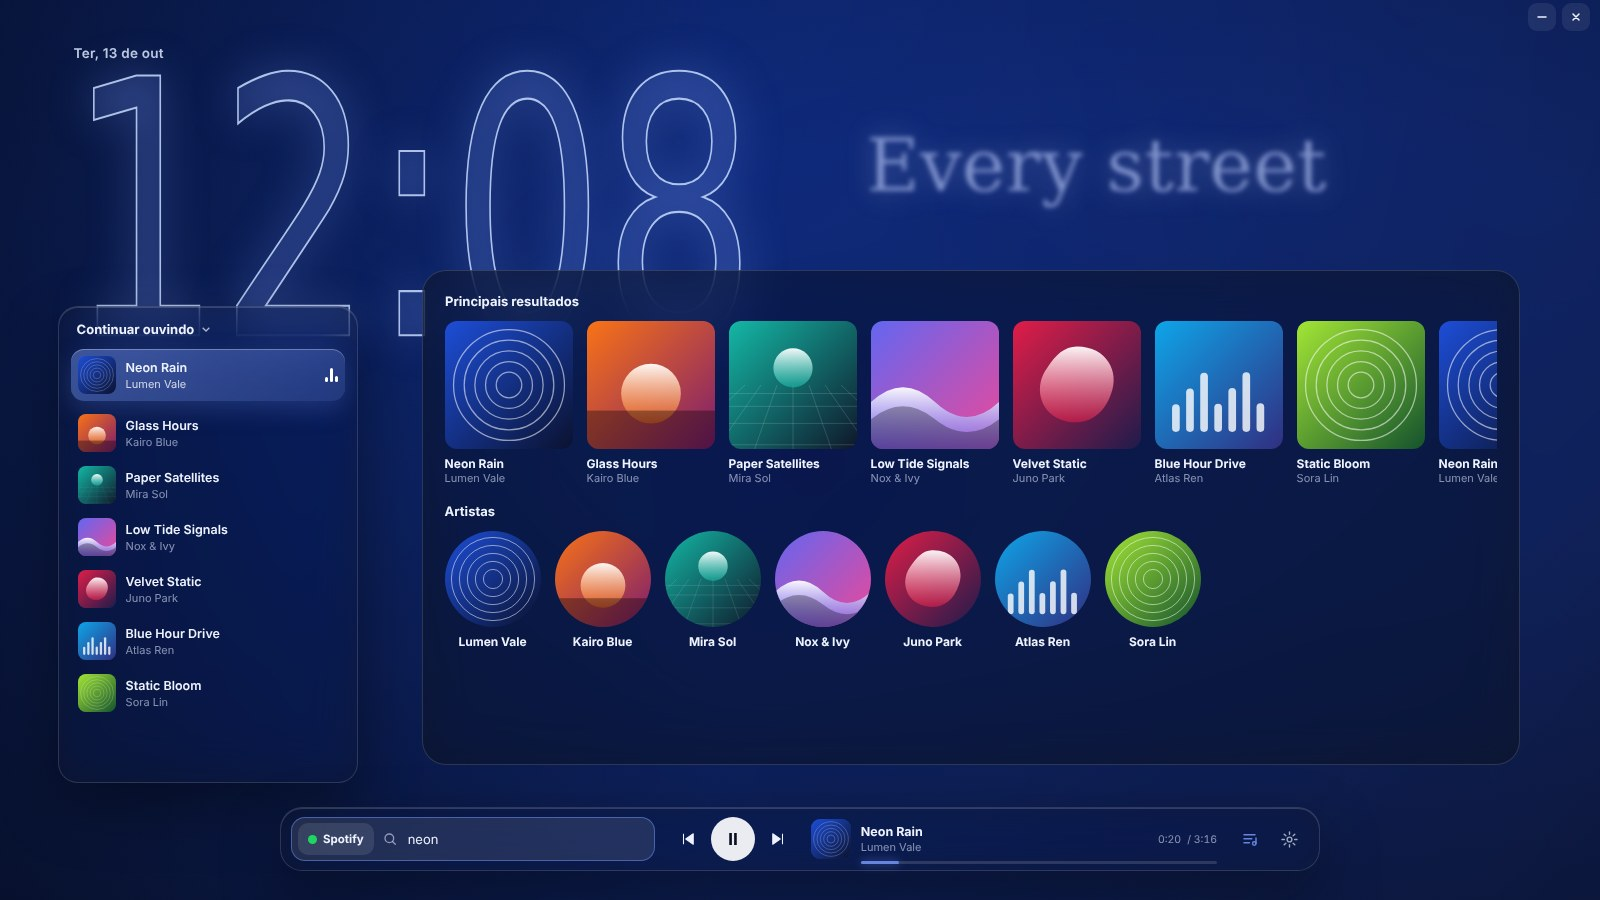
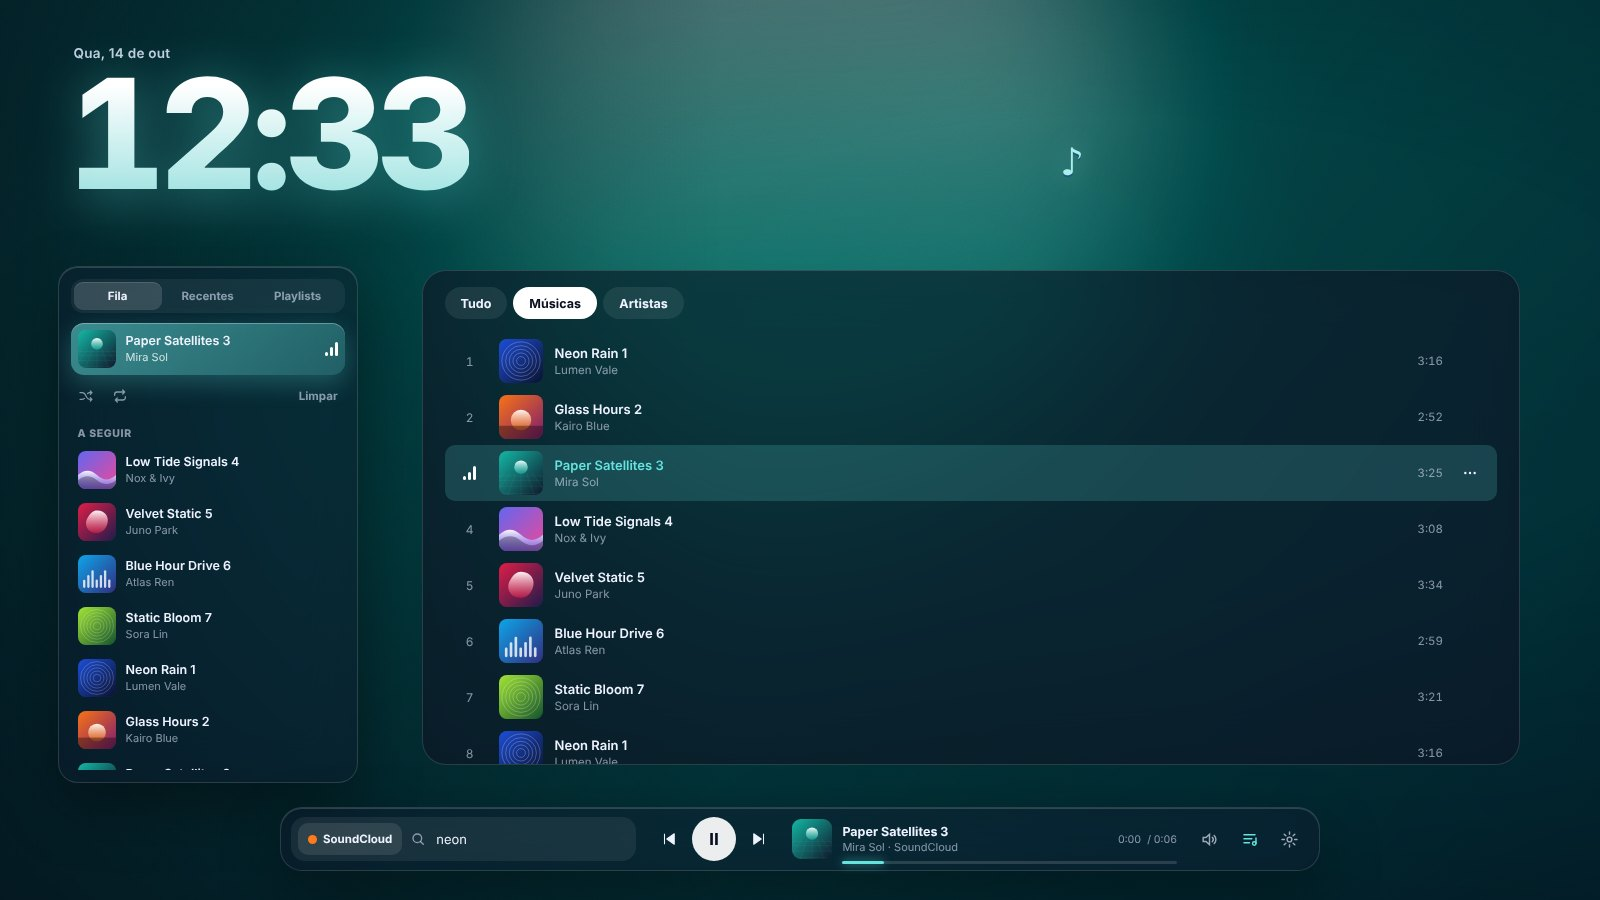
README atualizado: fila, playlists, busca completa, volume, letra karaokê, prints novos

diff --git a/README.md b/README.md
@@ -20,23 +20,33 @@ Funciona com Spotify, YouTube Music, SoundCloud, Apple Music, Deezer e o que mai
 
 ## ✨ O que ele faz
 
-- **Funciona com qualquer app de música.** Lê o que está tocando pelo sistema de mídia do Windows (o mesmo do controle de volume), sem login e sem chave de API.
-- **Carrossel 3D de capas** com o que você ouviu por último. Dá pra girar com a roda do mouse ou com as setas ← →.
-- **Letra sincronizada** aparecendo em pedacinhos animados em cima do fundo, via [LRCLIB](https://lrclib.net).
-- **Relógio gigante** em fonte condensada, no estilo de tela de bloqueio.
-- **Fundo dinâmico** feito com a capa da música. A cor de destaque do app também muda conforme a capa.
-- **Toca dentro do próprio app**, sem abrir navegador: SoundCloud (o áudio é baixado e tocado aqui) e YouTube Music / YouTube (pelo player oficial do YouTube, escondido; se o vídeo bloquear, o áudio vem pelo [yt-dlp](https://github.com/yt-dlp/yt-dlp), baixado e atualizado sozinho). Fila com próxima/anterior, avança sozinho e funciona com as teclas de mídia.
-- **Busca direto no SoundCloud e no YouTube Music**, inclusive faixas que só existem no SoundCloud (remix, unreleased…). O clique toca a música na hora. Pros outros serviços, ou se a busca do site falhar, os resultados vêm do Deezer.
-- **Fila no estilo Spotify**: *Tocar a seguir* e *Adicionar à fila* pelo menu ⋯ (ou clique direito), arrastar pra reordenar, embaralhar e repetir (a fila ou uma música).
-- **Playlists**: crie, renomeie e monte playlists com músicas do SoundCloud e do YouTube Music; toque em ordem ou embaralhado.
-- **Controles**: tocar/pausar, próxima, anterior, barra de progresso clicável e volume (do player interno, ou só do app que está tocando, como o Spotify).
-- **Wallpaper animado atrás dos ícones**, no estilo Wallpaper Engine. Mostra o relógio, a letra e a música tocando direto na área de trabalho.
-- **Biblioteca de wallpapers**: vídeo (mp4/webm), GIF ou imagem, mais o **Aurora**, um fundo animado embutido que muda de cor conforme a capa.
-- **Discord Rich Presence**: mostra "Ouvindo SoundCloud" (ou YouTube Music, YouTube…) no seu perfil, com capa, artista, barra de tempo e botão "Ouvir no …". Detecta sozinho onde a música está tocando, até no navegador.
-- Fica na **bandeja do sistema** quando você fecha.
-- **Se atualiza sozinho**: avisa quando sai versão nova nas Releases e instala com um clique.
+### 🎧 Ouvir
+- **Funciona com qualquer app de música.** Lê o que está tocando pelo sistema de mídia do Windows, sem login e sem chave de API. O Spotify continua tocando no próprio Spotify (contando pro Wrapped), e o Harle Player só mostra e controla.
+- **Toca SoundCloud e YouTube Music dentro do app**, sem abrir navegador. O áudio do SoundCloud é baixado e tocado aqui. O YouTube toca pelo player oficial, escondido, e se o vídeo bloquear, o áudio vem pelo [yt-dlp](https://github.com/yt-dlp/yt-dlp), baixado e atualizado sozinho.
+- **Fila no estilo Spotify**: *Tocar a seguir* e *Adicionar à fila* pelo menu **⋯** ou pelo clique direito, arrastar pra reordenar, embaralhar, repetir (a fila ou uma música) e limpar.
+- **Playlists**: crie, renomeie, reordene e toque em ordem ou embaralhado, com músicas do SoundCloud e do YouTube Music.
+- **Volume**: do player interno, ou só do app que está tocando (o Spotify, por exemplo), pelo mixer do Windows, sem mexer no volume do PC inteiro.
+- Teclas de mídia, tocar/pausar, próxima, anterior e barra de progresso clicável.
 
-<img src="docs/search.jpg" alt="Busca com resultados e artistas" />
+### 🔎 Buscar
+- **Busca direto no SoundCloud e no YouTube Music**, inclusive faixas que só existem no SoundCloud (remix, unreleased…).
+- **Abas Tudo · Músicas · Artistas**: os principais resultados e a lista completa, que carrega mais conforme você rola. Clicou numa música, ela toca e o resto da lista vira a fila.
+- Pros outros serviços, ou se a busca do site falhar, os resultados vêm do Deezer.
+
+### 🎨 Visual
+- **Relógio gigante** em três estilos: Sólido, Fino e Contorno.
+- **Letra sincronizada** via [LRCLIB](https://lrclib.net): o verso inteiro com as palavras acendendo no estilo karaokê, ou em pedaços grandes animados.
+- **Carrossel 3D de capas** com o que você ouviu por último. Dá pra girar com a roda do mouse ou com as setas ← →.
+- **Fundo dinâmico** feito com a capa da música. A cor de destaque do app também muda conforme a capa.
+- **Wallpaper animado atrás dos ícones**, no estilo Wallpaper Engine, com relógio, letra e música tocando direto na área de trabalho.
+- **Biblioteca de wallpapers**: vídeo (mp4/webm), GIF ou imagem, mais o **Aurora**, um fundo animado embutido que muda de cor conforme a capa.
+
+### 🔌 Integrações
+- **Discord Rich Presence**: "Ouvindo SoundCloud" (ou YouTube Music, YouTube…) no seu perfil, com capa, artista, barra de tempo e botão "Ouvir no …". Detecta sozinho onde a música está tocando, até no navegador.
+- **Se atualiza sozinho**: avisa quando sai versão nova nas Releases, baixa, instala e abre de novo com um clique.
+- Fica na **bandeja do sistema** quando você fecha.
+
+<img src="docs/search.jpg" alt="Busca completa: lista de músicas com a fila ao lado" />
 
 <img src="docs/wallpaper.jpg" alt="Modo wallpaper: relógio, letra e música tocando na área de trabalho" />
 
@@ -48,10 +58,12 @@ Funciona com Spotify, YouTube Music, SoundCloud, Apple Music, Deezer e o que mai
 | `/` ou `Ctrl+K` | Pesquisar |
 | `←` `→` | Girar o carrossel |
 | `Esc` | Fechar busca / configurações |
+| Clique direito numa música | Tocar a seguir, adicionar à fila ou a uma playlist |
+| Roda do mouse no 🔊 | Ajustar o volume |
 
 ## 📥 Baixar
 
-Vá em [**Releases**](https://github.com/Harlezinhuu/HarlePlayer/releases) e baixe o `Harle Player_x.x.x_x64-setup.exe`.
+Vá em [**Releases**](https://github.com/Harlezinhuu/HarlePlayer/releases) e baixe o `Harle.Player_x.x.x_x64-setup.exe`. Depois de instalado, as versões novas chegam sozinhas pelo próprio app.
 
 ## 🎮 Configurando o Discord
 
@@ -83,41 +95,47 @@ Pra mexer só no visual, sem compilar nada, use `npm run demo`.
 ### Testes
 
 ```bash
-npm test                                              # front: letra, títulos, cores…
+npm test                                              # front: fila, letra, títulos, cores…
 cargo test --manifest-path src-tauri/Cargo.toml       # Rust: Discord, detecção, leitura das buscas
 cargo test --manifest-path src-tauri/Cargo.toml ao_vivo -- --ignored --nocapture   # busca de verdade
 ```
 
-O GitHub Actions roda tudo a cada push. A busca ao vivo também roda todo dia, pra avisar se o SoundCloud ou o YouTube Music mudarem alguma coisa. Ele abre o front no navegador com músicas e letra de exemplo.
+O GitHub Actions roda tudo a cada push e gera o instalador. A busca ao vivo também roda todo dia, pra avisar se o SoundCloud ou o YouTube Music mudarem alguma coisa.
+
+O `npm run demo` abre o front no navegador com músicas, letra e busca de exemplo.
 
 ## 🧩 Como funciona
 
 ```
-┌────────────── Front (src/) ──────────────┐      ┌────────────── Rust (src-tauri/) ───────────────┐
-│ HTML + CSS + JS puro                     │      │ media.rs → GlobalSystemMediaTransportControls │
-│ relógio · carrossel 3D · letra · busca   │◀────▶│   lê título/artista/capa/posição a cada 400ms │
-│                                          │ IPC  │   e manda play/pause/próxima pro app de música│
-│ duas janelas: player e wallpaper         │      │ net.rs   → LRCLIB (letras) e Deezer (busca)   │
-└──────────────────────────────────────────┘      │ wallpaper.rs → janela atrás dos ícones        │
-                                                  │   (camada WorkerW do Explorer)                │
-                                                  │ main.rs  → bandeja e comandos                 │
-                                                  └───────────────────────────────────────────────┘
+┌──────────── Front (src/) ────────────┐        ┌──────────────── Rust (src-tauri/src/) ────────────────┐
+│ HTML + CSS + JS puro, sem build      │        │ media.rs     SMTC do Windows: o que toca + controles  │
+│ app.js     tela, busca, painel       │        │ detect.rs    qual serviço (app ou aba do navegador)   │
+│ player.js  player interno + YouTube  │◀──IPC─▶│ search.rs    SoundCloud api-v2 · YouTube Music        │
+│ queue.js   fila (funções puras)      │        │ net.rs       LRCLIB (letras) e Deezer                 │
+│                                      │        │ ytdlp.rs     reserva do YouTube                       │
+│ lib.js     letra, cores, títulos     │        │ volume.rs    volume por app (WASAPI)                  │
+│                                      │        │ discord.rs   Rich Presence (named pipe)               │
+│ 2 janelas: player e wallpaper        │        │ wallpaper.rs janela na camada WorkerW                 │
+└──────────────────────────────────────┘        │ updater.rs   Releases do GitHub → instala e reabre    │
+                                                └───────────────────────────────────────────────────────┘
 ```
 
 O modo wallpaper usa o mesmo truque do Wallpaper Engine e do Lively: o Explorer cria uma camada chamada **WorkerW** entre o papel de parede e os ícones, e o app pendura uma segunda janela nela. 
 
 A busca do SoundCloud usa a `api-v2` com o `client_id` público que o próprio site carrega. A do YouTube Music usa a API interna `youtubei/v1/search`, a mesma usada pela [ytmusicapi](https://github.com/sigma67/ytmusicapi). Nenhuma das duas é oficial: se o site mudar, o app mostra um aviso e cai pro Deezer.
 
-A posição da música é medida pelo app de origem e interpolada no front a cada frame. Cada verso da letra (LRC) é quebrado em pedaços de 1–3 palavras, e o tempo do verso é distribuído entre eles pelo tamanho de cada pedaço.
+A posição da música é medida pelo app de origem e interpolada no front a cada frame. No modo karaokê, o tempo de cada verso da letra (LRC) é distribuído entre as palavras pelo tamanho delas.
+
+A fila guarda quais músicas foram adicionadas por você: elas entram logo depois da atual, antes do resto (resultados da busca ou playlist), igual no Spotify. Música salva só com nome (vinda do Deezer, por exemplo) é procurada no SoundCloud/YouTube na hora de tocar.
 
 ## 🗺 Próximos passos
 
-- [ ] Suporte a macOS
-- [ ] Tocar direto pelo app (Spotify Web API / MusicKit)
 - [ ] Iniciar junto com o Windows
+- [ ] Importar playlists do SoundCloud e do YouTube Music
 - [ ] Wallpaper em vários monitores
 - [ ] Wallpapers que reagem ao som (visualizador)
 - [ ] Temas e posição dos elementos personalizáveis
+- [ ] Suporte a macOS
 
 ## 📄 Licença
 
